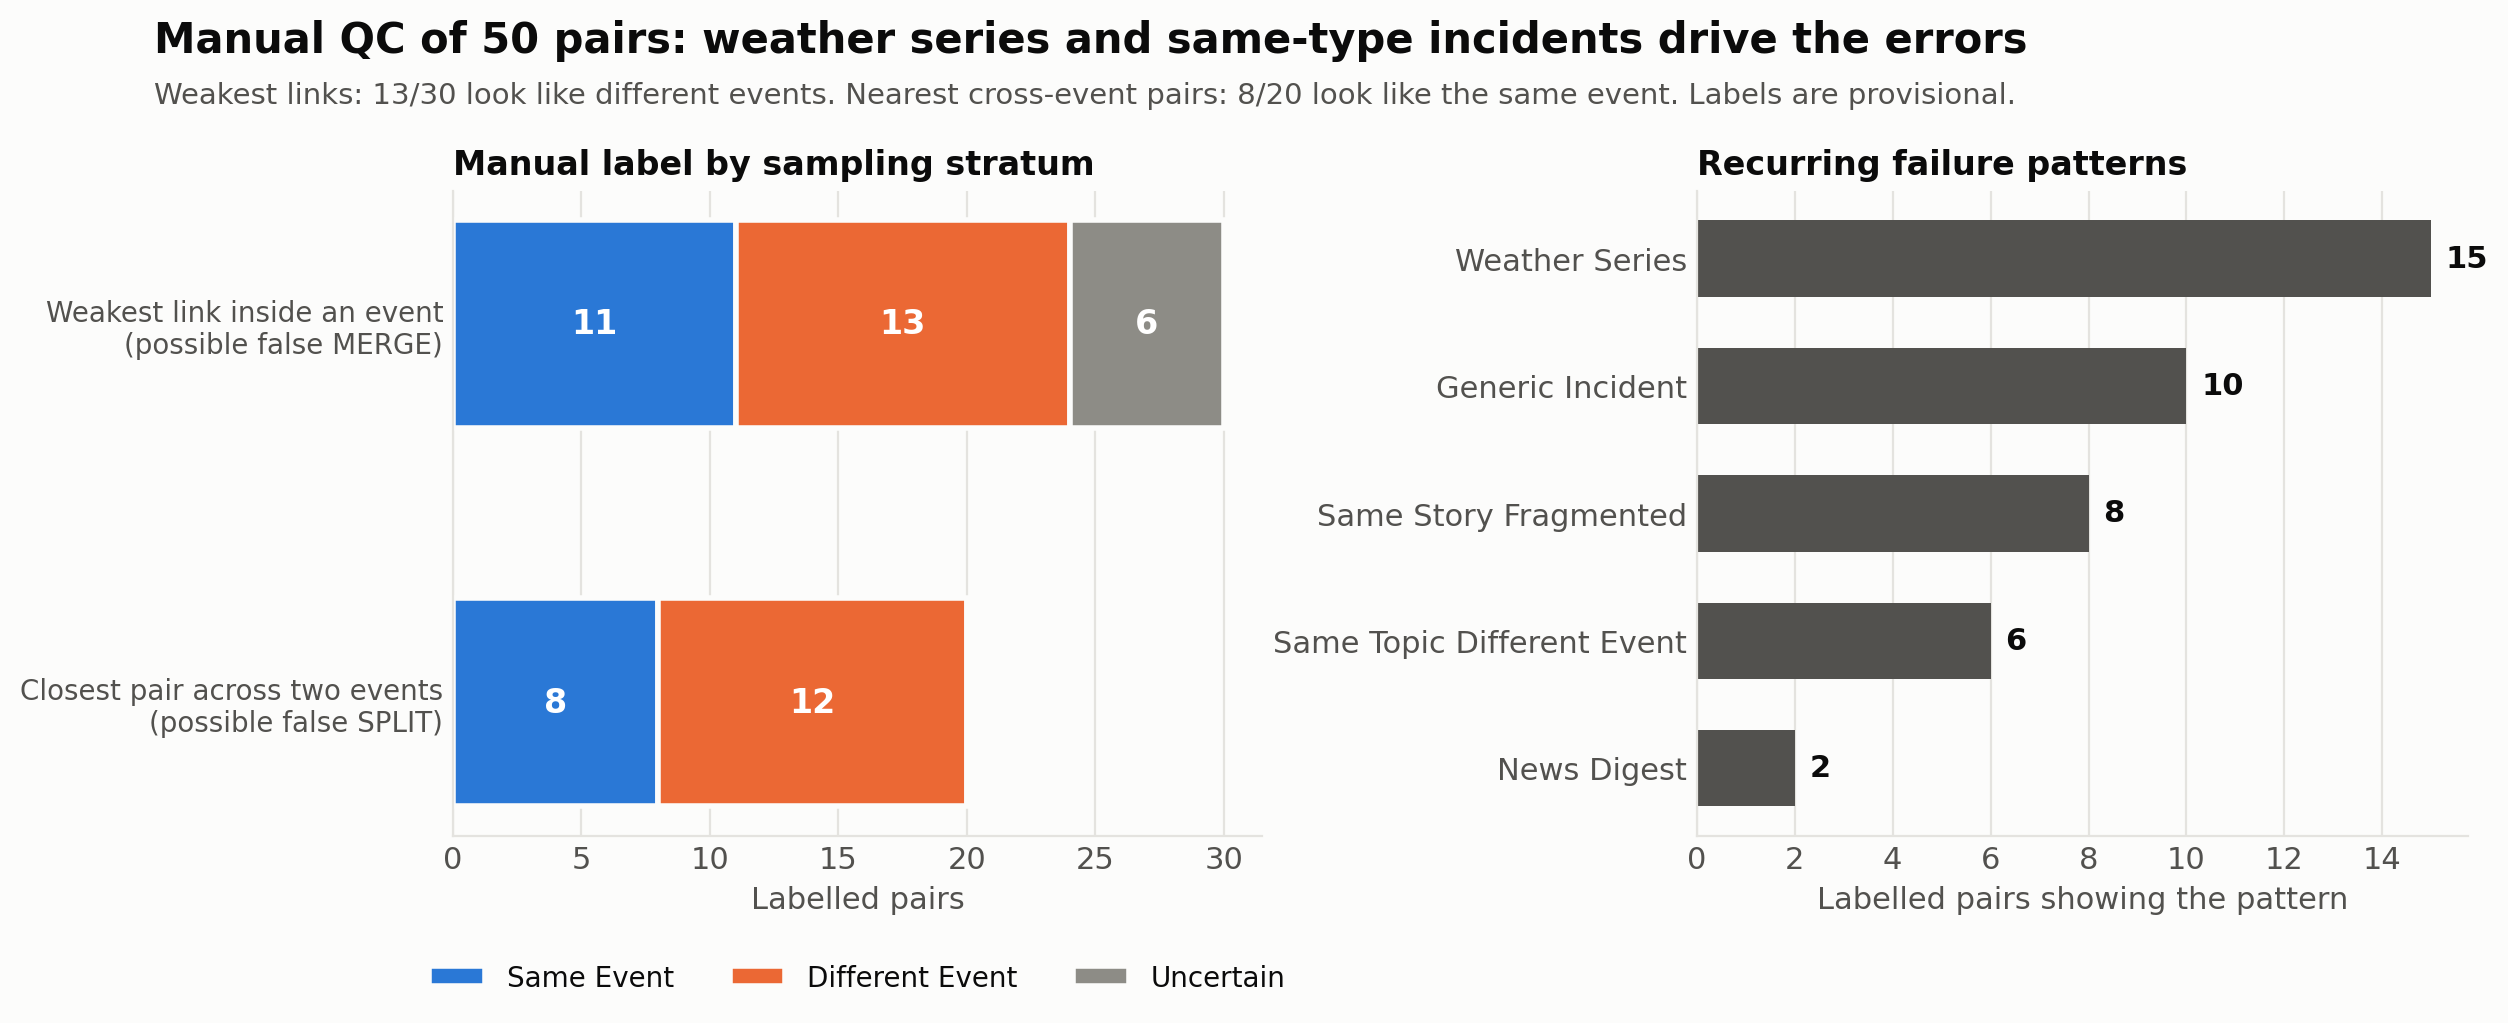
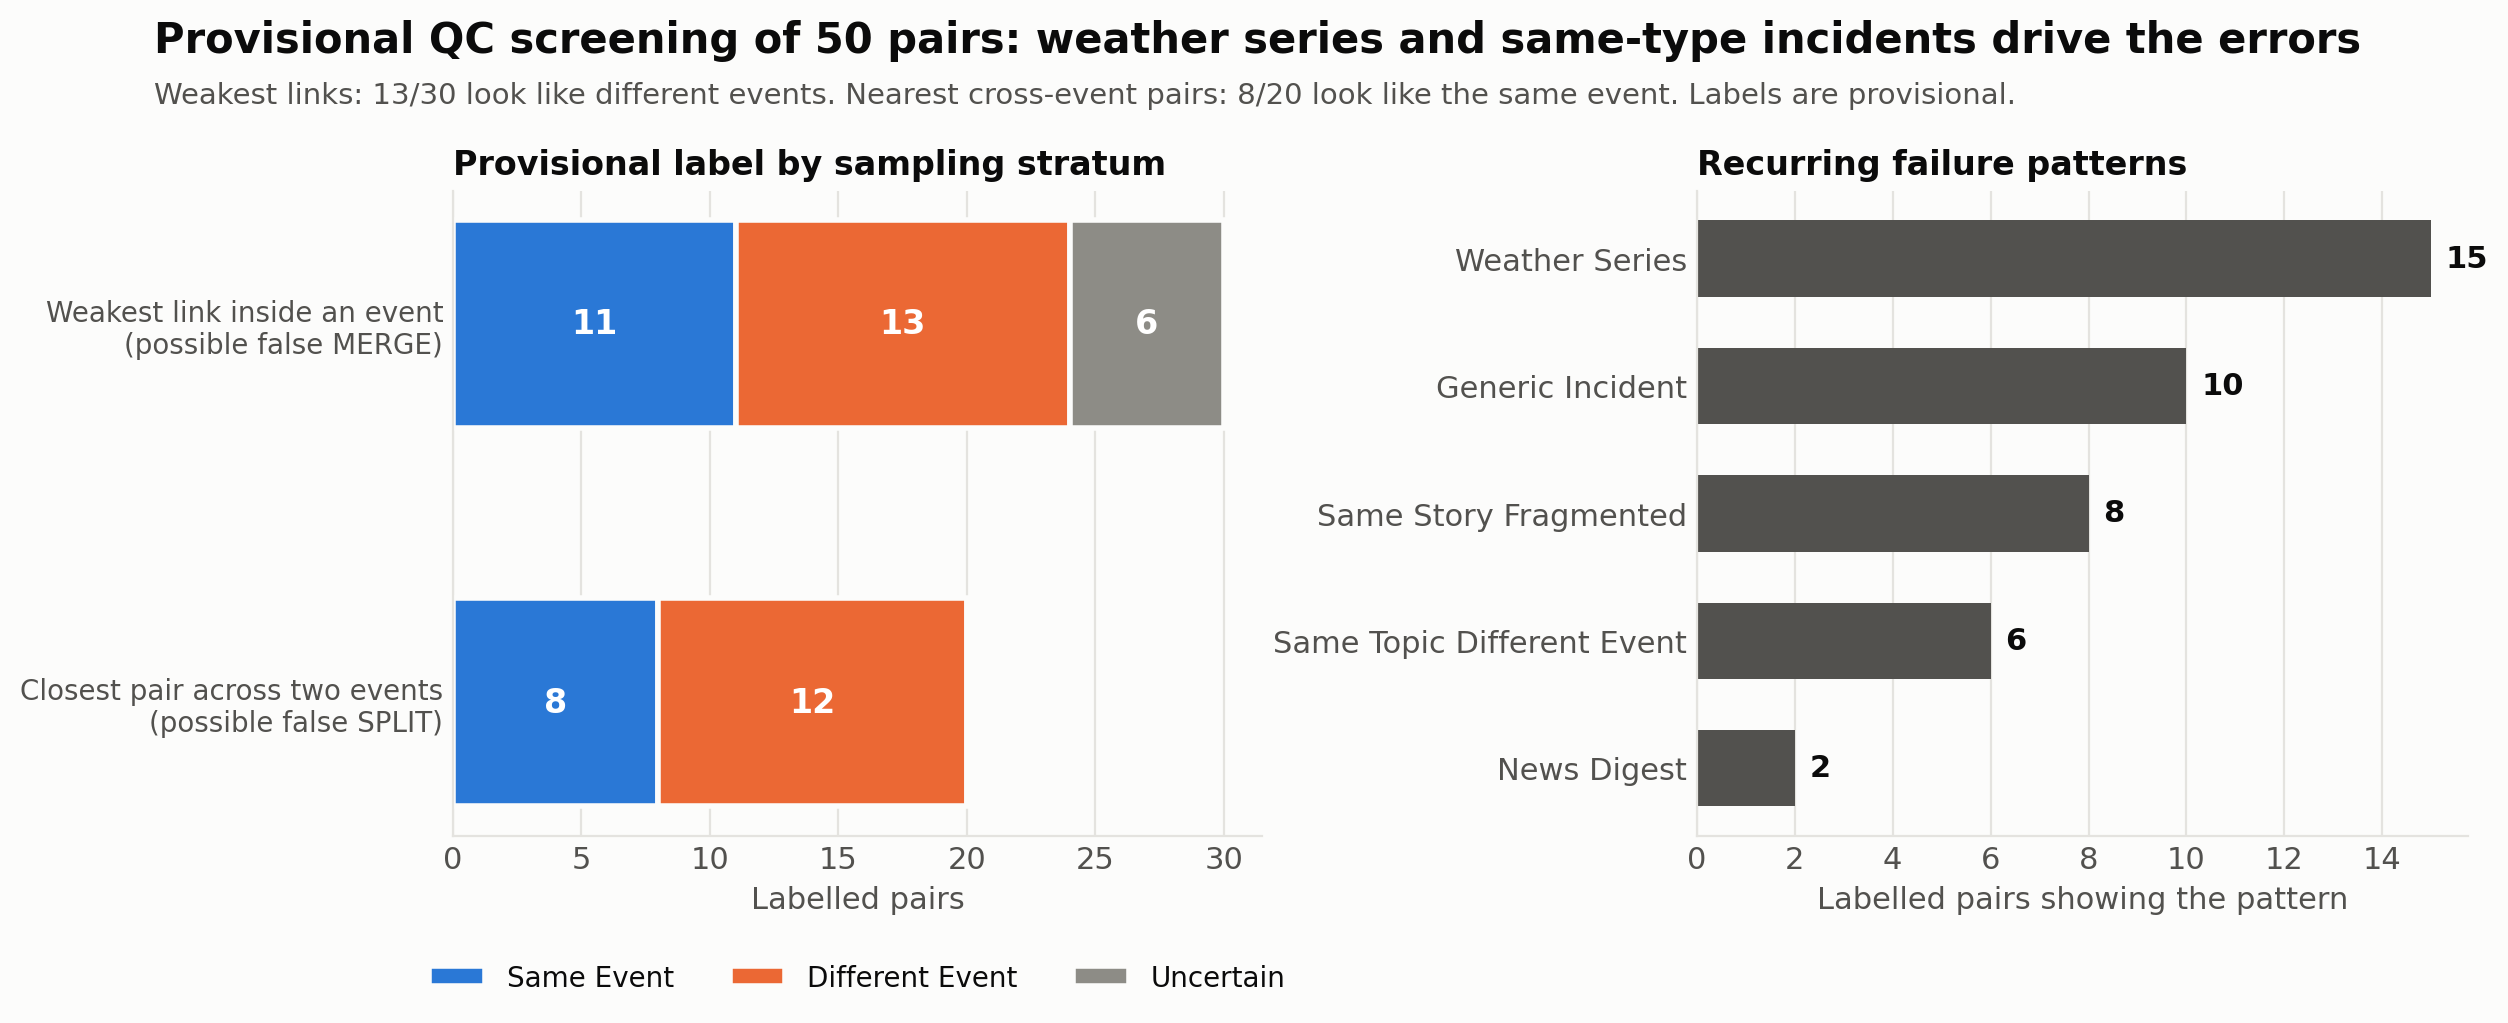
analysis: wording cleanup (provisional screening, not precision)
- README: state Vietnamnet appears in 15 cross-publisher events involving
  18/1000 articles (1.8%).
- Fig 5: "Manual QC / Manual label" -> "Provisional QC screening /
  Provisional label" (text only; regenerated PNG, data unchanged).
- README: cross-publisher review is AI-assisted qualitative screening; 15
  SAME + 3 PLAUSIBLE of 26 is not a precision estimate.

No calculations, clustering, labels or tables changed.

Changed region(s): [[0.0622, 0.0, 0.9641, 0.0606], [0.1866, 0.1515, 0.4665, 0.1818]]

diff --git a/src/analysis/midterm_analysis.py b/src/analysis/midterm_analysis.py
@@ -379,7 +379,7 @@ def fig5_qc(by_stratum: pd.DataFrame, pattern: pd.DataFrame, merged: pd.DataFram
     ax1.tick_params(length=0)
     ax1.xaxis.grid(True, color=GRID, linewidth=0.8)
     ax1.set_axisbelow(True)
-    ax1.set_title("Manual label by sampling stratum", loc="left", fontsize=12)
+    ax1.set_title("Provisional label by sampling stratum", loc="left", fontsize=12)
 
     p = pattern[pattern["failure_pattern"] != "NONE"].sort_values("total")
     ax2.barh(p["failure_pattern"].str.replace("_", " ").str.title(), p["total"], color=INK_2, height=0.6)  # neutral: blue/orange are reserved for labels in the left panel
@@ -395,7 +395,7 @@ def fig5_qc(by_stratum: pd.DataFrame, pattern: pd.DataFrame, merged: pd.DataFram
     n_ = bs.loc["INTER_CLUSTER_NEAR"]
     _title(
         fig,
-        "Manual QC of 50 pairs: weather series and same-type incidents drive the errors",
+        "Provisional QC screening of 50 pairs: weather series and same-type incidents drive the errors",
         f"Weakest links: {int(w['DIFFERENT_EVENT'])}/{int(w['total'])} look like different events. Nearest cross-event pairs: {int(n_['SAME_EVENT'])}/{int(n_['total'])} look like the same event. Labels are provisional.",
     )
     fig.subplots_adjust(top=0.82, wspace=0.55, bottom=0.2)

diff --git a/team_work/phases/phase3_analysis_graph/midterm_analysis/README.md b/team_work/phases/phase3_analysis_graph/midterm_analysis/README.md
@@ -14,7 +14,7 @@ Reproduce: `python -m src.analysis.midterm_analysis` (code: `src/analysis/midter
 | `fig2_publisher_articles_and_events.png` | `fig2_publisher_articles_and_events.csv` |
 | `fig4_publisher_coreporting_network.png` | `fig4_publisher_coreporting_network.csv` (edge list; `weight_independent` is drawn) |
 | `fig5_manual_qc_labels_and_failure_patterns.png` | `fig5_manual_qc_labels_and_failure_patterns.csv` (summary) ← `table5_qc_manual_labels.csv` (the 50 labelled pairs) |
-| (table only) cross-publisher events | `table3_cross_publisher_events.csv` (required columns), `table3_cross_publisher_events_reviewed.csv` (+ manual verdict) |
+| (table only) cross-publisher events | `table3_cross_publisher_events.csv` (required columns), `table3_cross_publisher_events_reviewed.csv` (+ AI-assisted screening verdict) |
 
 Manual inputs (hand-entered, versioned): `manual_inputs/qc_labels.csv`, `manual_inputs/cross_publisher_event_review.csv`.
 The frozen `event_clusters_qc.csv` is not edited; labels live in this folder and reference its row numbers.
@@ -23,13 +23,13 @@ The frozen `event_clusters_qc.csv` is not edited; labels live in this folder and
 
 **Event sizes.** 985 events: 811 singletons (82.3%) and 174 multi-article (17.7%). Sizes: 1→811, 2→135, 3→24, 4→8, 5→5, 6→1, 7→1. Most stories are seen by one article only.
 
-**Publishers.** `vietnamnet.vn` has 1,000 of 1,223 articles (81.8%; HHI 0.68); the other four Vietnamese publishers have 36–84 each and `asia.nikkei.com` has 2. Vietnamnet also has 802 distinct events, but only 15 events (1.8% of its articles) are cross-publisher, versus 19–22% of articles for dantri, thanhnien, tuoitre and vnexpress. The corpus is a Vietnamnet-heavy sample, not a balanced multi-publisher one.
+**Publishers.** `vietnamnet.vn` has 1,000 of 1,223 articles (81.8%; HHI 0.68); the other four Vietnamese publishers have 36–84 each and `asia.nikkei.com` has 2. Vietnamnet also has 802 distinct events. Vietnamnet appears in 15 cross-publisher events, involving 18/1000 articles (1.8%); for dantri, thanhnien, tuoitre and vnexpress the same share is 19–22% of their articles. The corpus is a Vietnamnet-heavy sample, not a balanced multi-publisher one.
 
-**Cross-publisher events (26).** Manual inspection: 15 clearly the same event, 3 plausible, 3 mixed (partly correct), 5 different events wrongly merged — about 69% good or plausible. Cleanest examples are events with 3 publishers reporting within hours: Quảng Ngãi ore carrier (`evt_28284fada5b7`), Chợ Quán car-into-crowd arrests (`evt_13986f343684`), "Tang Monk" clip (`evt_61e7f2ae8669`), THPT computer-exam pilot (`evt_73749c945b8d`). Failures are same-topic-different-event merges (`evt_97dfc8706783` volleyball vs handball at the same Asiad; `evt_bd8426ef24d4` Thanh Hóa flood vs Nha Trang dam; `evt_d980a91d4492` Nghệ An landslide + a Thanh Hóa crack; `evt_690a478e4007` weather forecasts).
+**Cross-publisher events (26).** AI-assisted qualitative screening: 15 SAME_EVENT, 3 PLAUSIBLE, 3 MIXED (partly correct), 5 DIFFERENT (wrongly merged). The 15 SAME + 3 PLAUSIBLE out of 26 is **not a precision estimate**: it is one AI reviewer's screening of a small, non-random set, without human ground truth or a defined sampling design. Cleanest examples are events with 3 publishers reporting within hours: Quảng Ngãi ore carrier (`evt_28284fada5b7`), Chợ Quán car-into-crowd arrests (`evt_13986f343684`), "Tang Monk" clip (`evt_61e7f2ae8669`), THPT computer-exam pilot (`evt_73749c945b8d`). Failures are same-topic-different-event merges (`evt_97dfc8706783` volleyball vs handball at the same Asiad; `evt_bd8426ef24d4` Thanh Hóa flood vs Nha Trang dam; `evt_d980a91d4492` Nghệ An landslide + a Thanh Hóa crack; `evt_690a478e4007` weather forecasts).
 
 **Co-reporting network.** 5 Vietnamese publishers are all pairwise connected (10 edges); `asia.nikkei.com` is isolated. Raw weights follow publisher size (dantri–vietnamnet 8 is the top edge); normalised by the smaller publisher's event count the strongest pair is dantri–tuoitre (13%). Edges exclude Phase 2B duplicate copies (dantri–vnexpress 3 → 2, because `evt_9e8c7c964cbd` is a syndicated family). With only 26 events and 6 nodes this is descriptive; no direction, no influence or copying claim.
 
-**Manual QC (50 pairs, provisional).** Weakest links: 11 same event / 13 different / 6 uncertain → ~43% of the worst pair inside an event are false-merge candidates (worst-case sample, not the overall error rate). Nearest cross-event pairs: 8 of 20 are the same event (false splits), 12 correct splits. Failure patterns over the 50 pairs: weather series 15, same-type incidents (accidents/crimes/fires, different cases) 10, same story fragmented 8, same topic but different event 6, news digests 2. Weather is the dominant recurring problem in **both** directions: daily forecasts and storm updates are sometimes merged across days and sometimes correctly split, so weather clusters are not reliable events. Other splits: the tailgating-fine rollout, storm no.4, the 14–15/9 Hanoi rain night and the ASEAN Cup celebration were split into separate events. No catastrophic failure that justifies changing thresholds tonight.
+**Provisional QC screening (50 pairs).** Weakest links: 11 same event / 13 different / 6 uncertain → ~43% of the worst pair inside an event are false-merge candidates (worst-case sample, not the overall error rate). Nearest cross-event pairs: 8 of 20 are the same event (false splits), 12 correct splits. Failure patterns over the 50 pairs: weather series 15, same-type incidents (accidents/crimes/fires, different cases) 10, same story fragmented 8, same topic but different event 6, news digests 2. Weather is the dominant recurring problem in **both** directions: daily forecasts and storm updates are sometimes merged across days and sometimes correctly split, so weather clusters are not reliable events. Other splits: the tailgating-fine rollout, storm no.4, the 14–15/9 Hanoi rain night and the ASEAN Cup celebration were split into separate events. No catastrophic failure that justifies changing thresholds tonight.
 
 ## Caveats
 
